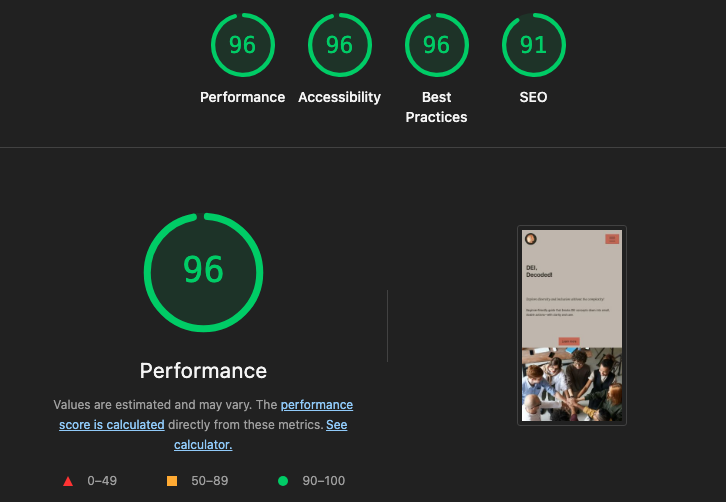
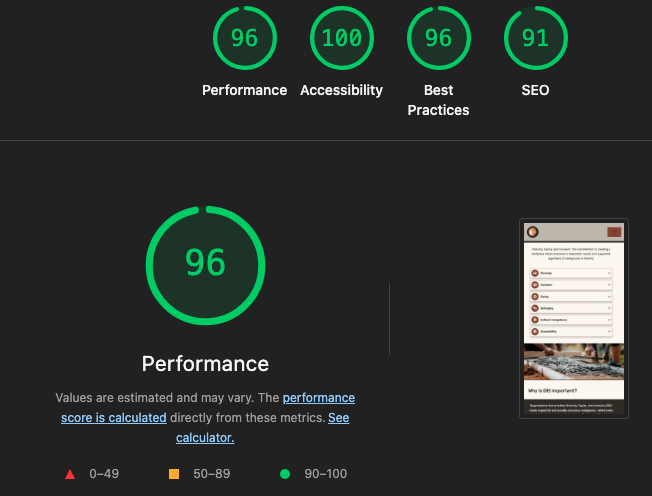
adjust accent color to address accessibility

diff --git a/assets/css/style.css b/assets/css/style.css
@@ -19,7 +19,7 @@
     --dark-color: #2E2A26;
     --light-color: #FDF7F2;
     --midtone-color: #BEB6AE;
-    --highlight-color: #BC5E55;
+    --highlight-color: #873E36;
     --light-highlight-color: #E3A48F;
 
     /* Transitions */
@@ -129,7 +129,7 @@ h2 {
 .custom-btn {
     background-color: var(--highlight-color);
     border-color: var(--highlight-color);
-    color: var(--dark-color);
+    color: var(--light-color);
     border-radius: 0;
     -webkit-transition: var(--transition);
     -o-transition: var(--transition);
@@ -151,7 +151,7 @@ h2 {
 
 .icon {
     background-color: var(--highlight-color);
-    color: var(--dark-color);
+    color: var(--light-color);
     width: 30px;
     height: 30px;
     border-radius: 50%;
@@ -332,6 +332,7 @@ h2 {
     width: 30px;
     height: 30px;
     margin-right: 0.5rem;
+    color: var(--light-color);
 }
 
 #concepts-section .container {
@@ -535,6 +536,8 @@ h2 {
     -ms-flex-negative: 0;
     flex-shrink: 0;
     z-index: 2;
+    color: var(--light-color);
+    font-weight: bold;
 }
 
 .step-content {
@@ -615,7 +618,8 @@ footer ul li a:hover {
     margin-bottom: 0.5rem;
     font-family: var(--accent-font);
     font-size: calc(0.8rem + 0.5vw);
-    color: var(--highlight-color);
+    color: var(--dark-color);
+    font-weight: bold;
 }
 
 .footer-quote cite {

diff --git a/README.md b/README.md
@@ -194,7 +194,8 @@ For user interaction, the website will include:
 #### Colour Scheme
 
 The website uses color palette generated using [colrmind.io](http://colormind.io/).
-![Color palette](assets/images/color-palette.png)
+![Color palette](assets/images/color-palette-updated.png)
+
 
 #### Typography
 
